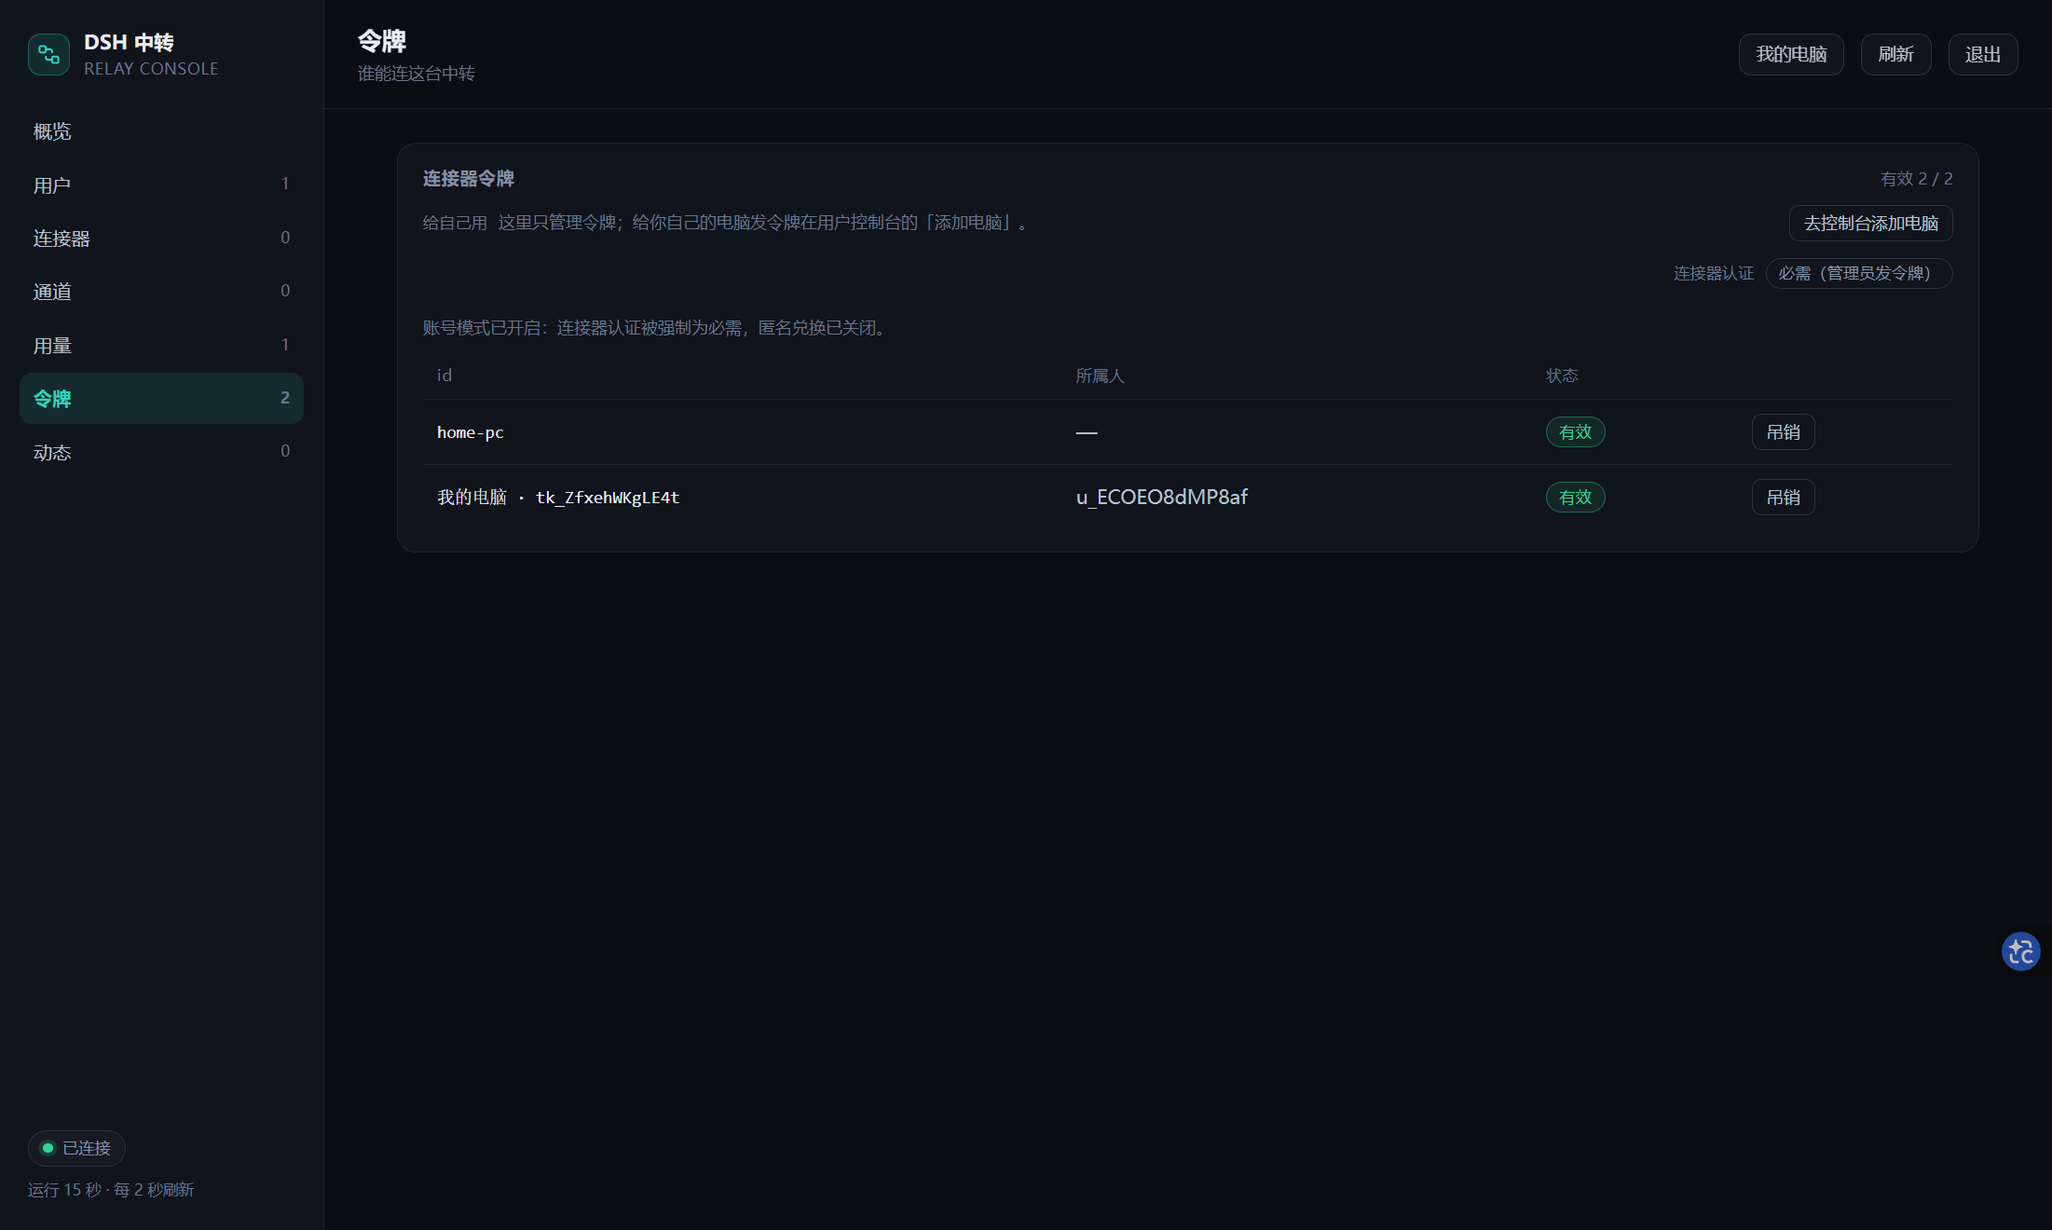
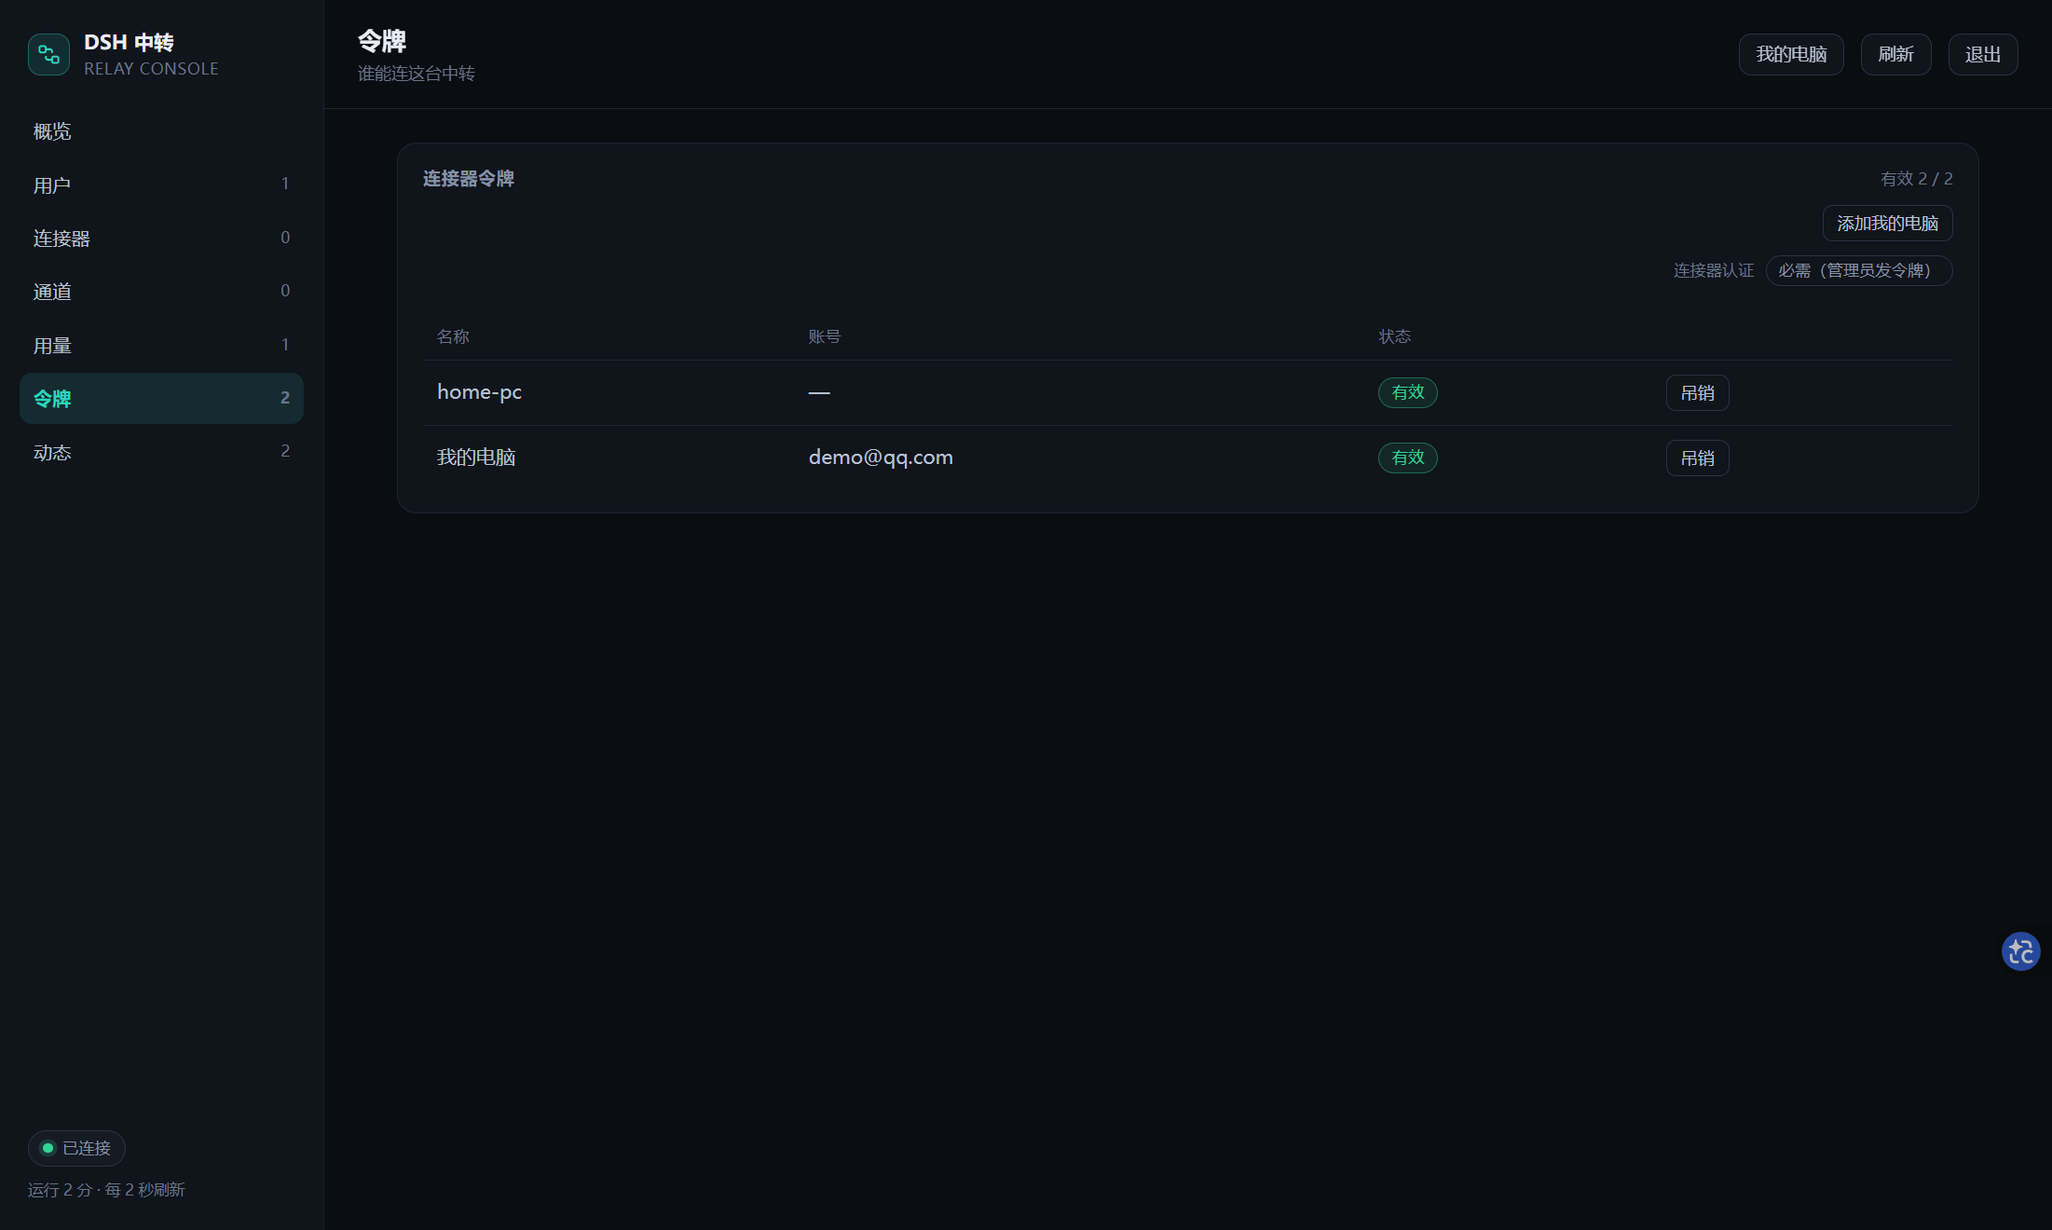
style(relay,connector): 收紧界面文案，去掉说明书式解释
登录页只留一句标题和三枚短标签；控制台空态/添加/令牌弹窗各留一句必要说明；管理台令牌页只留「添加我的电脑」，表格改名称/邮箱

连接卡删除令牌外链下的长提示；重截用户登录、控制台、添加电脑、令牌、管理台令牌页五张图；relay 151 / connector 826 全绿

diff --git a/relay/src/admin/page.ts b/relay/src/admin/page.ts
@@ -614,7 +614,7 @@ td.id{color:var(--ink)}
         })
       }))
       mailBody.appendChild(mailRow)
-      mailBody.appendChild(el('p', '用当前 auth.smtp 配置发一封。AhaSend 的发件域名必须先校验，否则会 502。', 'hintline'))
+      mailBody.appendChild(el('p', 'AhaSend 发件域名需先校验。', 'hintline'))
       mailCard.appendChild(mailBody)
       viewEl.appendChild(mailCard)
       return
@@ -780,7 +780,7 @@ td.id{color:var(--ink)}
           }),
           '还没有账号'
         ))
-        usageBody.appendChild(el('p', '按账号列出全部用户（含零用量）；「改额度」写账号库，立即生效。', 'hintline'))
+        usageBody.appendChild(el('p', '含零用量；改额度立即生效。', 'hintline'))
         userUsage.appendChild(usageBody)
         viewEl.appendChild(userUsage)
 
@@ -821,7 +821,7 @@ td.id{color:var(--ink)}
             }))
             return [row.subject, used, limitCell, actions]
           }), '没有未归属的用量'))
-          legacyBody.appendChild(el('p', '这些是账号模式之前或没配 owner 的令牌；迁移到账号后从这张表消失。', 'hintline'))
+          legacyBody.appendChild(el('p', '旧令牌 / 未配 owner；迁入账号后消失。', 'hintline'))
           legacyCard.appendChild(legacyBody)
           viewEl.appendChild(legacyCard)
         }
@@ -885,21 +885,16 @@ td.id{color:var(--ink)}
     // 名额留空 = 无上限（不预设人为限制，收紧是 owner 的动作）。
     var auth = state.connectorAuth || { mode: 'required', limit: null, autoCount: 0 }
     var authBody = el('div', undefined, 'body')
-    // 管理台只管理已有令牌；"给自己电脑发令牌"在用户控制台。把入口放在找令牌的人眼前。
-    var selfUse = el('div')
-    selfUse.style.cssText = 'display:flex;gap:8px;align-items:center;flex-wrap:wrap;margin:0 0 12px'
-    selfUse.appendChild(el('span', '给自己用', 'meta'))
-    var selfHint = el('span', '这里只管理令牌；给你自己的电脑发令牌在用户控制台的「添加电脑」。', 'hint')
-    selfHint.style.margin = '0'
-    selfHint.style.flex = '1'
-    selfUse.appendChild(selfHint)
-    var selfLink = el('a', '去控制台添加电脑', 'btn')
+    // 管理台只管理已有令牌；"给自己电脑发令牌"在用户控制台。
+    var selfRow = el('div')
+    selfRow.style.cssText = 'display:flex;justify-content:flex-end;margin:0 0 10px'
+    var selfLink = el('a', '添加我的电脑', 'btn')
     selfLink.href = '/console'
     selfLink.style.textDecoration = 'none'
     selfLink.style.display = 'inline-flex'
     selfLink.style.alignItems = 'center'
-    selfUse.appendChild(selfLink)
-    authBody.appendChild(selfUse)
+    selfRow.appendChild(selfLink)
+    authBody.appendChild(selfRow)
     var modeLine = el('div')
     modeLine.style.cssText = 'display:flex;gap:8px;align-items:center;flex-wrap:wrap;margin:0 0 12px'
     modeLine.appendChild(el('span', '连接器认证', 'meta'))
@@ -913,9 +908,7 @@ td.id{color:var(--ink)}
       }))
     }
     authBody.appendChild(modeLine)
-    if (state.auth) {
-      authBody.appendChild(el('p', '账号模式已开启：连接器认证被强制为必需，匿名兑换已关闭。', 'hint'))
-    } else {
+    if (!state.auth) {
       var limitLine = el('div')
       limitLine.style.cssText = 'display:flex;gap:8px;align-items:center;flex-wrap:wrap;margin:0 0 4px'
       limitLine.appendChild(el('span', '自动签发上限', 'meta'))
@@ -934,11 +927,10 @@ td.id{color:var(--ink)}
       }))
       limitLine.appendChild(el('span', '已自动签发 ' + auth.autoCount + ' 条', 'meta'))
       authBody.appendChild(limitLine)
-      authBody.appendChild(el('p', '开放时任何人拿到地址都能连；内容仍端到端加密，中转只见密文与元数据。', 'hint'))
     }
     tokens.appendChild(authBody)
     var tBody = el('div', undefined, 'body')
-    tBody.appendChild(table(['id', '所属人', '状态', ''], state.tokens.map(function (row) {
+    tBody.appendChild(table(['名称', '账号', '状态', ''], state.tokens.map(function (row) {
       var actions = el('span')
       if (row.revokedAt) {
         actions.appendChild(btn('恢复', function () {
@@ -955,8 +947,14 @@ td.id{color:var(--ink)}
           post('/admin/api/tokens/revoke', { id: row.id }).then(refresh)
         }, true))
       }
-      var label = row.name ? row.name + ' · ' + row.id : row.id
-      return [label, row.userId || row.owner || '—', el('span', row.revokedAt ? '已吊销' : '有效', 'tag ' + (row.revokedAt ? 'bad' : 'ok')), actions]
+      var label = el('span', row.name || row.id)
+      label.title = row.id
+      var owner = row.owner || '—'
+      if (row.userId) {
+        var ownerUser = (state.users || []).find(function (user) { return user.id === row.userId })
+        owner = ownerUser ? ownerUser.email : row.userId
+      }
+      return [label, owner, el('span', row.revokedAt ? '已吊销' : '有效', 'tag ' + (row.revokedAt ? 'bad' : 'ok')), actions]
     }), '还没有连接器令牌'))
     tokens.appendChild(tBody)
     viewEl.appendChild(tokens)

diff --git a/relay/src/ui/console-page.ts b/relay/src/ui/console-page.ts
@@ -279,14 +279,10 @@ export const CONSOLE_PAGE = `<!doctype html>
     host.appendChild(kpis)
 
     if (active.length === 0) {
-      var onboarding = card('先把一台电脑接上来')
-      var steps = el('ol', null, 'steps')
-      ;['点右上角「添加电脑」，给它起个名字，复制只显示一次的令牌。',
-        '在电脑的 DSH 里打开「手机 → 连接」，把令牌粘进去；relayTokenRef 空着时按默认格 relay-connector 读写，不用先改配置。',
-        '保存后电脑会自己连上来，再用手机扫码配对。'].forEach(function (line) {
-        steps.appendChild(el('li', line))
-      })
-      onboarding.body.appendChild(steps)
+      var onboarding = card('还没有电脑')
+      var intro = el('p', '添加一台电脑，把令牌粘贴到 DSH 的「手机 → 连接」卡。', 'muted')
+      intro.style.margin = '0 0 16px'
+      onboarding.body.appendChild(intro)
       var addNow = button('添加电脑', 'primary', openAddComputer)
       var actions = el('div', null, 'actions')
       actions.style.marginTop = '16px'
@@ -318,10 +314,7 @@ export const CONSOLE_PAGE = `<!doctype html>
     ))
     host.appendChild(list.card)
 
-    var hint = el('div', null, 'note')
-    hint.appendChild(el('b', '令牌只显示一次。'))
-    hint.appendChild(document.createTextNode(' 丢了就停用这台电脑，再新建一台 —— 不要试图找回来，中转只存摘要。'))
-    host.appendChild(hint)
+    host.appendChild(el('p', '令牌只显示一次；丢了就停用后重建。', 'note'))
   }
 
   function renderComputers(host) {
@@ -358,12 +351,7 @@ export const CONSOLE_PAGE = `<!doctype html>
     ))
     host.appendChild(section.card)
 
-    var note = el('div', null, 'note')
-    note.appendChild(el('b', '停用 / 删除的区别：'))
-    note.appendChild(document.createTextNode(
-      '停用会立刻收掉那台电脑的连接，但记录留着（可恢复）；删除是不可恢复的清理，只对已停用的电脑开放。',
-    ))
-    host.appendChild(note)
+    host.appendChild(el('p', '停用会立刻断线；删除只对已停用的电脑开放。', 'note'))
   }
 
   function renderAccount(host) {
@@ -451,7 +439,7 @@ export const CONSOLE_PAGE = `<!doctype html>
     openModal(function (box) {
       var head = el('header')
       head.appendChild(el('h3', '添加一台电脑'))
-      head.appendChild(el('p', '给它起个名字（比如「家里的台式机」），令牌只显示一次。', 'sub'))
+      head.appendChild(el('p', '令牌只显示一次。', 'sub'))
       box.appendChild(head)
       var body = el('div', null, 'body')
       var field = el('label', null, 'field')
@@ -461,11 +449,6 @@ export const CONSOLE_PAGE = `<!doctype html>
       input.maxLength = 40
       field.appendChild(input)
       body.appendChild(field)
-      var note = el('p', null, 'hint')
-      note.appendChild(document.createTextNode('创建后把这串令牌粘进电脑的 DSH「手机 → 连接」卡即可；relayTokenRef 空着时按默认格 '))
-      note.appendChild(el('code', 'relay-connector'))
-      note.appendChild(document.createTextNode(' 读写，不用先改配置。'))
-      body.appendChild(note)
       box.appendChild(body)
       var foot = el('footer')
       foot.appendChild(button('取消', '', closeModal))
@@ -490,7 +473,7 @@ export const CONSOLE_PAGE = `<!doctype html>
     openModal(function (box) {
       var head = el('header')
       head.appendChild(el('h3', '「' + name + '」的令牌'))
-      head.appendChild(el('p', '只显示这一次。关掉这个窗口就再也拿不到了。', 'sub'))
+      head.appendChild(el('p', '只显示一次。', 'sub'))
       box.appendChild(head)
       var body = el('div', null, 'body')
       var codebox = el('div', null, 'codebox')
@@ -508,13 +491,10 @@ export const CONSOLE_PAGE = `<!doctype html>
       })
       codebox.appendChild(copy)
       body.appendChild(codebox)
-      var step = el('p', null, 'hint')
-      step.appendChild(document.createTextNode('电脑上打开 DSH →「手机」→「连接」：地址填这台中转，令牌粘贴上面这串。'))
-      body.appendChild(step)
       var check = el('label', null, 'check')
       var checkbox = el('input'); checkbox.type = 'checkbox'
       check.appendChild(checkbox)
-      check.appendChild(el('span', '我已经保存好了（令牌只出现这一次）'))
+      check.appendChild(el('span', '我已保存'))
       body.appendChild(check)
       box.appendChild(body)
       var foot = el('footer')

diff --git a/relay/src/ui/auth-page.ts b/relay/src/ui/auth-page.ts
@@ -23,15 +23,15 @@ export const AUTH_PAGE = `<!doctype html>
       <span>DSH 中转</span>
     </div>
     <div>
-      <h1>把电脑上的 DSH，带到任何一台手机上。</h1>
-      <p class="lead">这台中转只做两件事：转发端到端加密的帧、按账号记账。它看不到你的会话内容。</p>
+      <h1>把 DSH 带到手机上。</h1>
+      <p class="lead">端到端加密 · 按账号计量</p>
       <ul class="points">
-        <li><i>01</i><span><b>端到端加密</b>　中转搬的是密文，密钥只在电脑和手机上。</span></li>
-        <li><i>02</i><span><b>一个账号管住所有电脑</b>　每台电脑一枚令牌，停用即下线。</span></li>
-        <li><i>03</i><span><b>按月计量</b>　流量用超即停，不悄悄续费。</span></li>
+        <li><i>01</i><span><b>端到端加密</b></span></li>
+        <li><i>02</i><span><b>每台电脑一枚令牌</b></span></li>
+        <li><i>03</i><span><b>按月计量</b></span></li>
       </ul>
     </div>
-    <div class="auth-foot">self-hosted · 只转发与记账</div>
+    <div class="auth-foot">self-hosted</div>
   </aside>
 
   <main class="auth-main">
@@ -42,7 +42,6 @@ export const AUTH_PAGE = `<!doctype html>
       </div>
       <div class="mark">${'<svg viewBox="0 0 24 24" fill="none" stroke-width="1.8" stroke-linecap="round"><rect x="3" y="4" width="6" height="6" rx="1.6"/><rect x="15" y="14" width="6" height="6" rx="1.6"/><path d="M9 7h4a2 2 0 0 1 2 2v1"/><path d="M15 17h-4a2 2 0 0 1-2-2v-1"/></svg>'}</div>
       <h2 id="title">登录</h2>
-      <p class="sub" id="sub">用邮箱和密码进入控制台</p>
 
       <form id="form" autocomplete="on" novalidate>
         <label class="field">
@@ -137,13 +136,11 @@ export const AUTH_PAGE = `<!doctype html>
   // 标题与字段显隐
   if (mode === 'login') {
     setText('title', '登录')
-    setText('sub', '用邮箱和密码进入控制台')
     setText('submit', '登录')
     q('password').placeholder = '输入密码'
     q('password').setAttribute('autocomplete', 'current-password')
   } else if (mode === 'register') {
     setText('title', '创建账号')
-    setText('sub', '验证邮箱后即可添加电脑')
     setText('submit', '创建账号')
     setText('password-label', '密码')
     q('password').setAttribute('autocomplete', 'new-password')
@@ -153,7 +150,6 @@ export const AUTH_PAGE = `<!doctype html>
     show('alt-register', true)
   } else {
     setText('title', '重置密码')
-    setText('sub', '验证邮箱后设置一个新密码')
     setText('submit', '重置密码')
     setText('password-label', '新密码')
     q('password').setAttribute('autocomplete', 'new-password')
@@ -173,7 +169,7 @@ export const AUTH_PAGE = `<!doctype html>
     var domains = (data.registration && data.registration.emailDomains) || []
     if (domains.length > 0 && mode !== 'login') {
       var hint = q('domain-hint')
-      hint.textContent = '注册只接受 ' + domains.map(function (item) { return '@' + item }).join('、') + ' 邮箱。'
+      hint.textContent = '只接受 ' + domains.map(function (item) { return '@' + item }).join('、') + ' 邮箱'
       hint.hidden = false
     }
     if (mode !== 'login' && data.registration && data.registration.requireEmailVerification === false) {

diff --git a/connector/client.js b/connector/client.js
@@ -236,7 +236,6 @@ window.__ModuleLoader__.load({
       tokenPlaceholder: '留空 = 不改',
       tokenClear: '清除令牌',
       tokenOpenConsole: '去注册 / 登录',
-      tokenOpenConsoleHint: '没有令牌？先在浏览器打开中转，注册并登录后进控制台「添加电脑」，再把令牌贴回来。',
       // 后果句必须写清"会发生什么 + 怎么恢复"：删掉后重建中转通道会立刻断开，
       // 而恢复要在服务器上重签令牌（面板里贴回来即可，不用改文件）。
       tokenClearTitle: '清除连接器令牌？',
@@ -389,7 +388,6 @@ window.__ModuleLoader__.load({
       tokenPlaceholder: 'Leave empty to keep',
       tokenClear: 'Clear token',
       tokenOpenConsole: 'Sign up / sign in',
-      tokenOpenConsoleHint: 'No token? Open the relay in your browser, sign up and sign in, add a computer in the console, then paste the token here.',
       tokenClearTitle: 'Clear the connector token?',
       tokenClearDescription: 'This computer will immediately stop reaching the relay (direct connections on the same WiFi keep working). To recover, issue a new token on the server and paste it back here.',
       tokenRefLabel: 'Credential reference',
@@ -954,10 +952,6 @@ window.__ModuleLoader__.load({
           : h('p', { role: 'alert', style: { ...S.label, ...S.err, margin: '4px 0 0' } }, errorOf('token')),
         h('p', { style: { ...S.label, ...S.dim, margin: '4px 0 0' } },
           `${t('tokenRefLabel')}：${view.value.relayTokenRef || '—'}`),
-        consoleUrl === null || view.token.configured
-          ? null
-          : h('p', { style: { ...S.label, ...S.dim, margin: '4px 0 0', lineHeight: 1.6 } },
-              t('tokenOpenConsoleHint')),
 
         // ⑤ 直连端口（0 = 停用直连）
         h('div', { style: { ...S.row, marginTop: 10 } },

diff --git a/docs/subsystems/relay-accounts.md b/docs/subsystems/relay-accounts.md
@@ -99,7 +99,7 @@
 - 登录页:左品牌、右表单;注册/重置共用一张壳,按路径显示字段。
 - 控制台:概览 / 我的电脑 / 账号;空状态给三步引导;添加电脑后令牌弹窗必须勾选"已保存"才能关闭。
 - 管理台:`/admin` 的"用户"分区显示账号、角色、状态、电脑/在线/设备数、本月用量(带用量条)、最近登录;可停用/恢复、改角色、改电脑上限、改额度、重置用量、发测试邮件。
-- **管理台不签发自己的令牌**:顶栏「我的电脑」与「令牌」页的「去控制台添加电脑」都指向 `/console`;管理员和普通用户走同一个「添加电脑」流程。
+- **管理台不签发自己的令牌**:顶栏「我的电脑」与令牌页的「添加我的电脑」都指向 `/console`;管理员和普通用户走同一个「添加电脑」流程。
 - 管理台"用量"分区:账号数 / 本月总用量 / 在线电脑 / 已配对设备四个 KPI;按已用降序列出全部账号(含零用量)、额度条、最近登录,并可改额度或重置;**未归属账号的主体(旧令牌 / 没配 owner)单独一张表**,不会因为开了账号模式就从面板消失。
 - 电脑侧「连接」卡的令牌行有「去注册 / 登录」外链:按当前 `relayUrl` 推导 `http(s)://host/login`,`/login` 已登录会 302 到 `/console`;取舍见 `.agents/notes/implemented/2026-11-02-connection-card-opens-relay-console.md`。
 
@@ -107,7 +107,7 @@
 ![用户控制台概览](../assets/relay-user-console.png)
 ![添加电脑](../assets/relay-user-add-computer.png)
 ![令牌只显示一次](../assets/relay-user-token.png)
-![管理台令牌页：顶栏「我的电脑」+「去控制台添加电脑」](../assets/relay-admin-tokens.png)
+![管理台令牌页：顶栏「我的电脑」+「添加我的电脑」](../assets/relay-admin-tokens.png)
 
 ## 9. 已知边界
 

diff --git a/memory.md b/memory.md
@@ -9,7 +9,7 @@
   邮箱注册（默认只限 `qq.com`，6 位码 / 10 分钟 / scrypt）、会话 cookie + CSRF、控制台建电脑、
   首次 `?id=` 绑定 `connectorId`；默认 **2 台电脑 / 5 GiB 月额度**，管理员可在 `/admin` 用户区改；
   管理台「用量」面板给出账号数 / 总用量 / 在线电脑 / 已配对设备 KPI，以及按已用降序的用户表（含零用量）、未归属主体单表；
-  管理台自己不签发令牌，顶栏「我的电脑」和令牌页「去控制台添加电脑」都指向 `/console`（管理员与普通用户同一套添加电脑流程）。
+  管理台自己不签发令牌，顶栏「我的电脑」和令牌页「添加我的电脑」都指向 `/console`（管理员与普通用户同一套添加电脑流程）。
   电脑侧「连接」卡令牌行加了「去注册 / 登录」外链（按 `relayUrl` 推导 `/login`，插件 0.1.10）；
   空 `relayTokenRef` 时面板按默认格 `relay-connector` 读写，不再拒绝贴令牌。
   账号库 SQLite `relay/data/relay.db`（挂目录，WAL）；SMTP 走 AhaSend `send.ahasend.com:587`，
